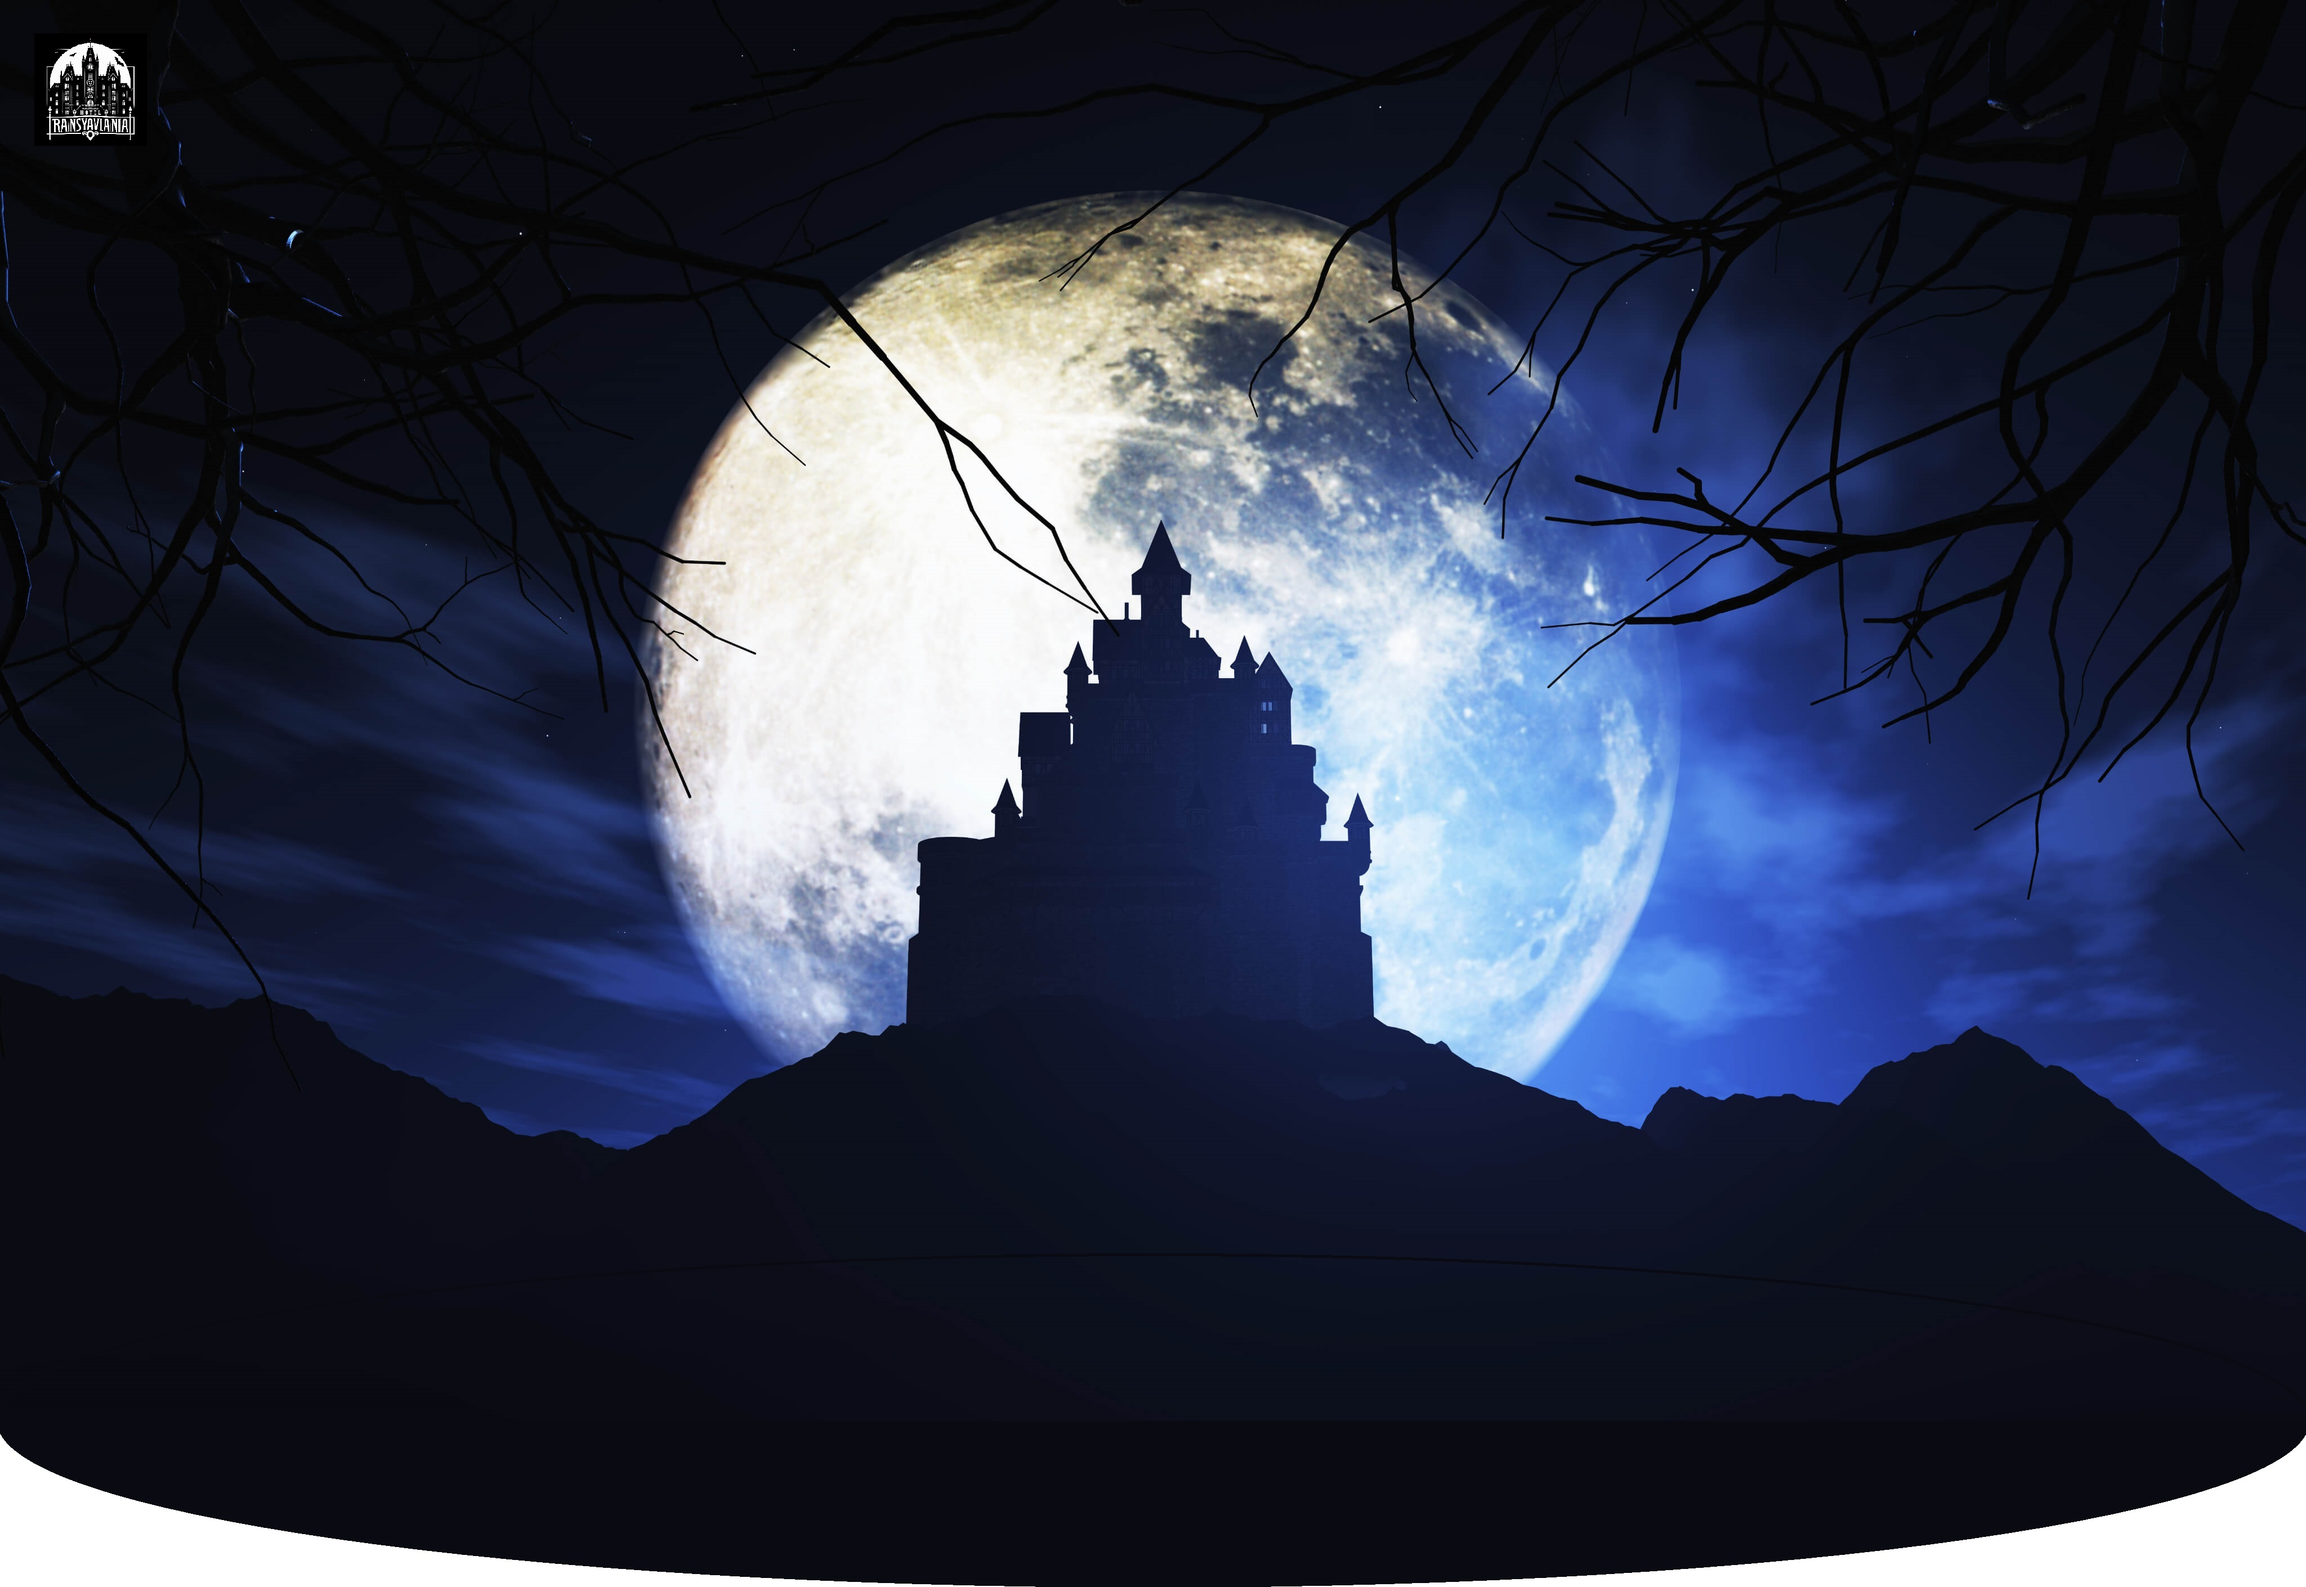
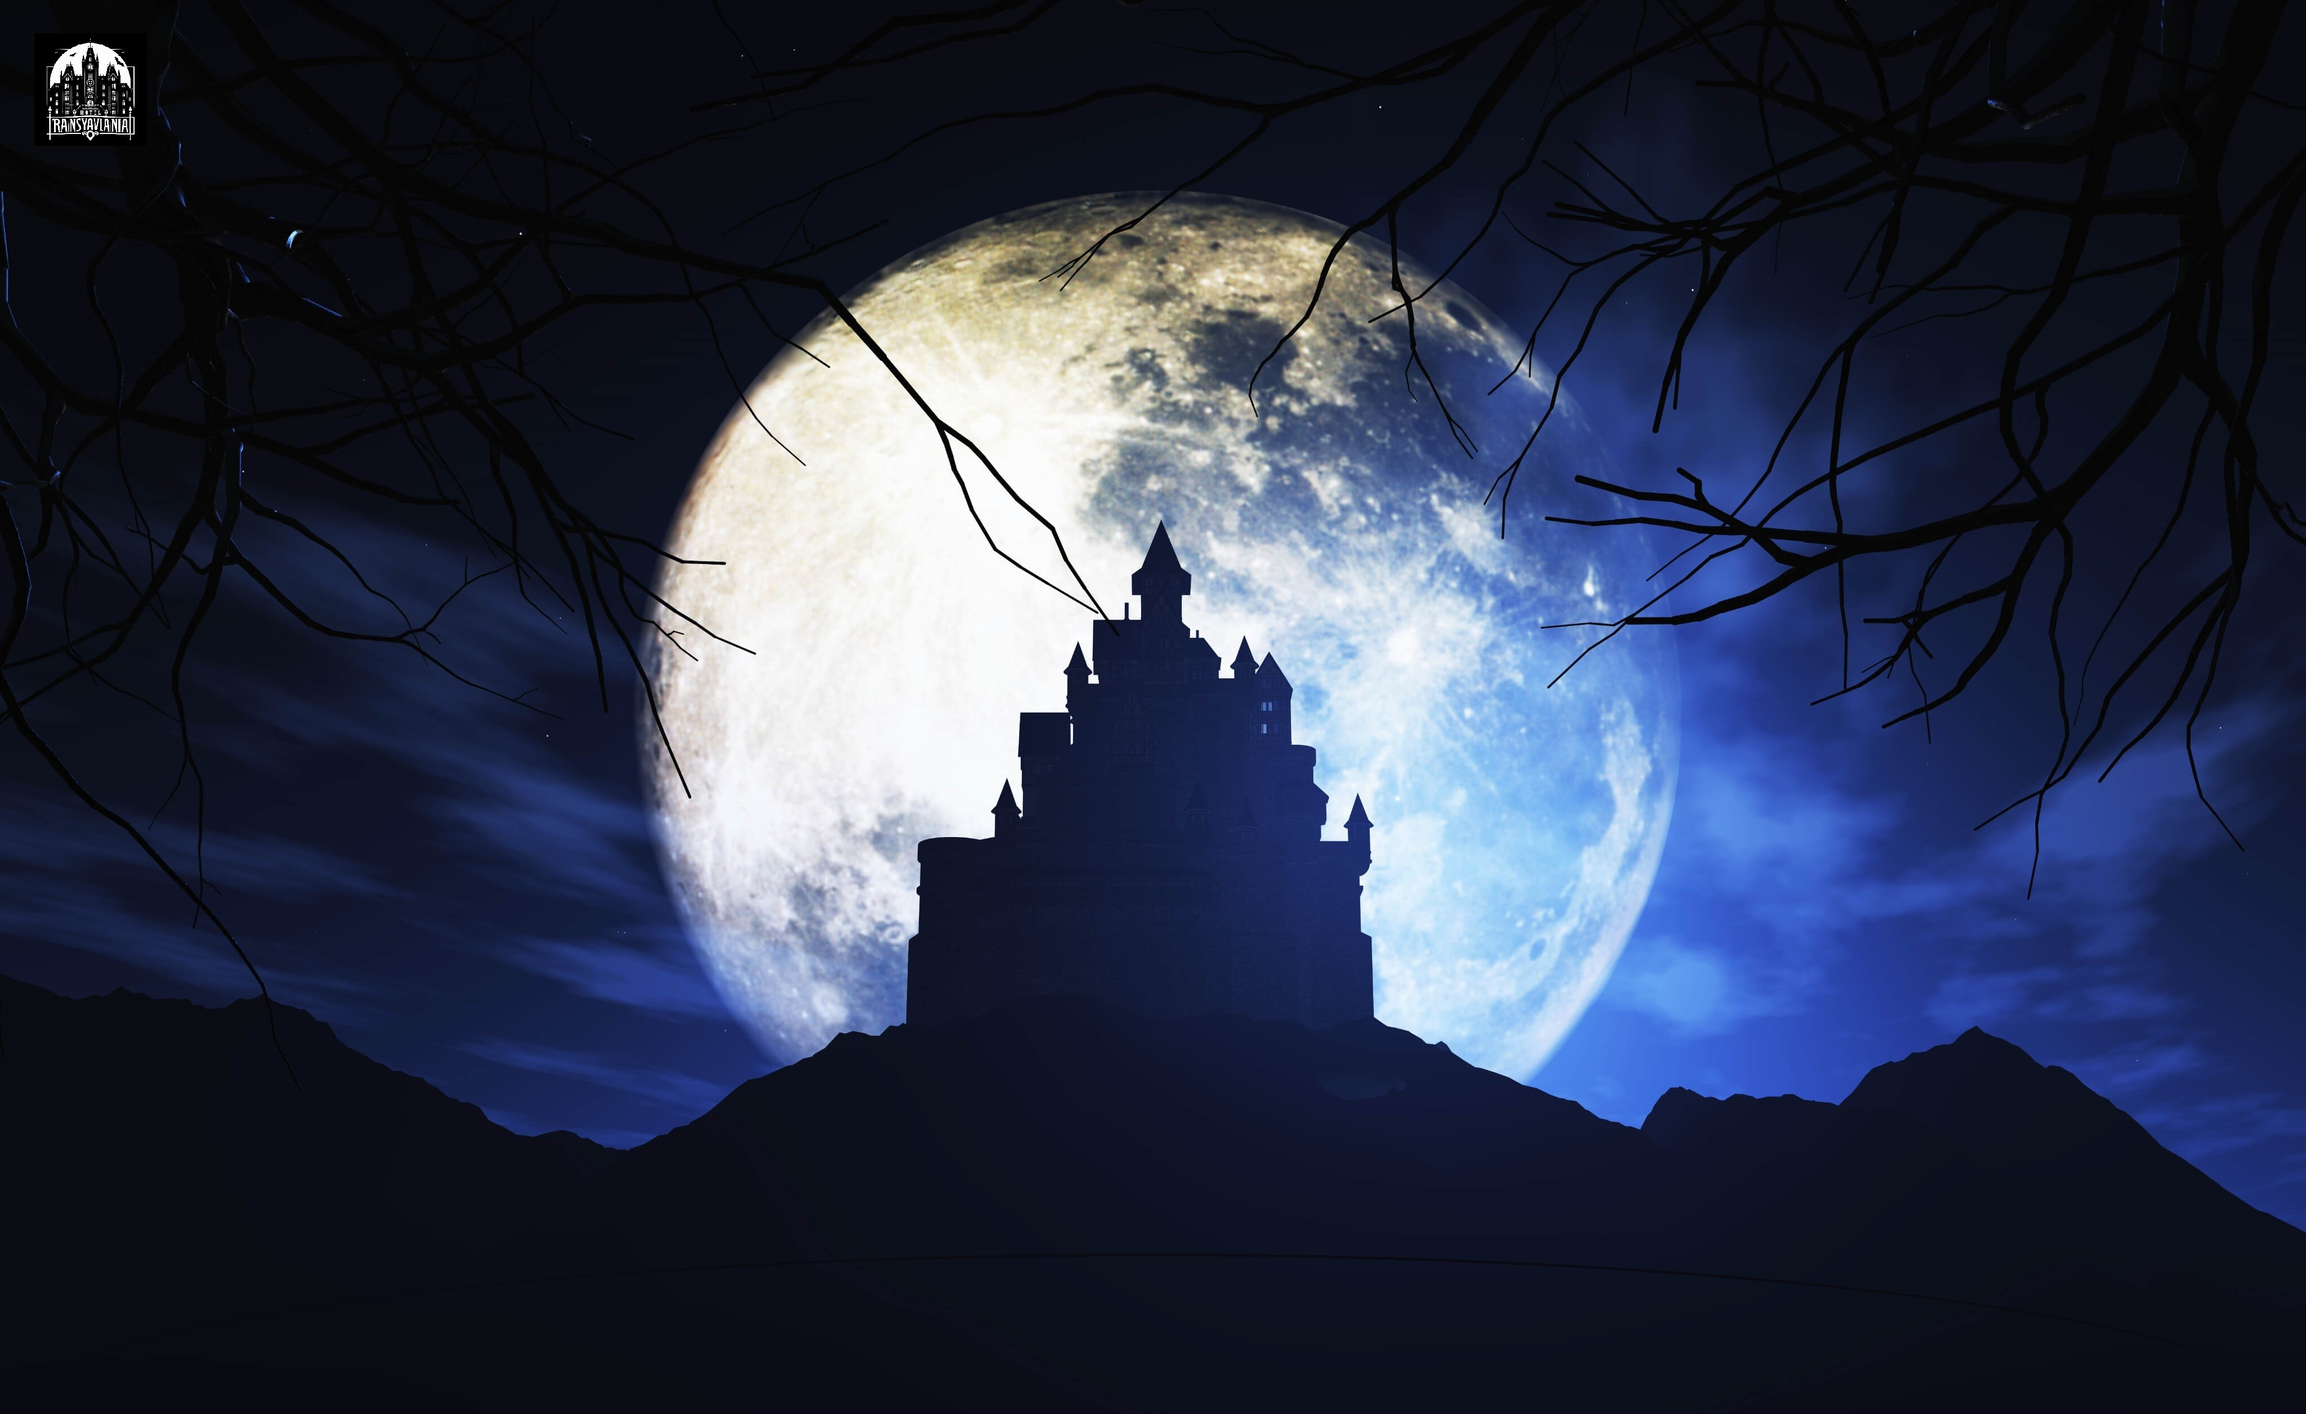
basic landing-page

diff --git a/src/pages/Landing.jsx b/src/pages/Landing.jsx
@@ -1,30 +1,96 @@
 import { ThemeProvider } from "@mui/material/styles";
 import { theme } from "../layouts/theme";
+
+import { Link } from "react-router-dom";
 import "../components/BackgroundImage.css";
 import Bar from '../components/Bar';
+import Footer from "../components/Footer";
+import { Button } from "@mui/material";
 
-const body_TODO = () => {
-    const res = []
-    for (let i = 0; i < 100; i++) {
-        res.push(<br />);
-    }
-    return res;
-}
+import htp1 from "../assets/Hotelpic1.jpeg";
+import htp2 from "../assets/Hotelpic2.jpeg"
+import htp3 from "../assets/Hotelpic3.jpeg"
+import home from "../assets/HomePage.jpeg";
+
+import "bootstrap/dist/css/bootstrap.min.css";
+import "../components/Landing.css";
+
 
 const HomePage = () => {
     return (
-        <ThemeProvider theme={theme}>
-            <div className="background-image">
-                <Bar />
+        <div >
+        <nav class="navbar navbar-expand-lg fixed-top text-right navbar-dark border-body" data-bs-theme="dark" >
+            <div class="container">
+              <button class="navbar-toggler" type="button" data-bs-toggle="collapse" data-bs-target="#navbarNav" aria-controls="navbarNav" aria-expanded="false" aria-label="Toggle navigation">
+                <span class="navbar-toggler-icon"></span>
+              </button>
+              <div class="collapse navbar-collapse" id="navbarNav">
+                <ul class="navbar-nav ms-auto">
+                    <Button>
+                        <Link to="/register" class="nav-link active text-purple">ثبت نام</Link>
+                    </Button>
+                    <Button>
+                    <Link to="/login" class="nav-link text-purple">ورود</Link>
+                    </Button>
+                    <Button>
+                    <a class="nav-link text-purple" href="#">اخبار</a>
+                    </Button>
+                </ul>
+              </div>
             </div>
-            <div>
-                <center>
-                    {body_TODO()}
-                    <h1 style={{fontSize: 100, backgroundColor: 'purple'}}> Footer </h1>
-                </center>
+        </nav>
+        <div>
+            
+        </div>
+        <div class="overlay-container">
+            <img src={home} class="overlay-image rounded-bottom-corners enlarge-image" alt="Responsive Image" />
+            <div class="overlay-text text-purple fade-text" id ="welcomeText">تصاویر هتل</div>
+        </div>
+        <div class="container mt-5">
+            <div class="row">
+                <div class="col-md-4 mb-4">
+                    <div class="card">
+                        <img src={htp1} class="card-img-top" alt="Card Image"/>
+                        <div class="card-body">
+                            <h5 class="card-title">اتاق با فضای باز</h5>
+                            <p class="card-text">در این اتاقها، شما از زیباییهای محیط باز لذت میبرید، همچنین فضایی راحت و آرامشبخش برای استراحت و خلوت به شما ارائه میشود. با دسترسی به یک تراس یا باغ خصوصی، این اتاقها فراتر از یک اقامت معمولی را به شما ارائه میدهند</p>
+                            <a href="#" class="btn bg">ادامه</a>
+                        </div>
+                    </div>
+                </div>
+    
+                <div class="col-md-4 mb-4">
+                    <div class="card">
+                        <img src={htp2} class="card-img-top" alt="Card Image" />
+                        <div class="card-body">
+                            <h5 class="card-title">اتاق های لاکچری</h5>
+                            <p class="card-text">هر جزئیات اتاقهای لاکچری ما با دقت انتخاب شده است،ازانتخاب مبلمان گرانقیمت تاارائهی خدمات شخصی و حرفهای. از دیگر ویژگیها میتوان به تجهیزات نوآورانه، تختهای فاخر با بلندی مطلوب و حمامات طراحی شده با ذوق اشاره کرد</p>
+                            <a href="#" class="btn bg">ادامه</a>
+                        </div>
+                    </div>
+                </div>
+    
+                <div class="col-md-4 mb-4">
+                    <div class="card">
+                        <img src={htp3} class="card-img-top" alt="Card Image"/>
+                        <div class="card-body">
+                            <h5 class="card-title">اتاق های چند نفره</h5>
+                            <p class="card-text">هر اتاق چند نفره با اهتمام به جزئیات طراحی شده است تا امکاناتی را در اختیار شما قرار دهد که هر کدام از مهمانان بتوانند لحظاتی خاص و شاد را در کنار یکدیگر سپری کنند. از امکانات این اتاقها میتوان به تجهیزات رفاهی، فضاهای جلوهای و خدمات شخصی اشاره کرد</p>
+                            <a href="#" class="btn bg">ادامه</a>
+                        </div>
+                    </div>
+                </div>
             </div>
-        </ThemeProvider>
+        </div>
+        <footer class="mt-5 status-bottom">
+            <div class="container-fluid bg-dark text-light text-center py-3">
+                <Button>تماس با ما</Button>
+                <Button>درباره ما</Button>
+            </div>
+        </footer>
+    </div>
     );
 }
+
 
 export default HomePage;

diff --git a/src/components/Landing.css b/src/components/Landing.css
@@ -1,0 +1,60 @@
+
+.overlay-container {
+    position: relative;
+}
+
+.overlay-text {
+    position: absolute;
+    bottom: 20px; /* Adjust this value to your preference */
+    left: 50%;
+    transform: translateX(-50%);
+    color: white;
+    font-size: 2em;
+    font-weight: bold;
+}
+
+.overlay-image {
+    width: 100%;
+    height: auto;
+}
+
+.text-purple {
+    color: #BD93F9 !important;
+}
+body {
+    background-color: #282a36;
+    color: #f8f8f2;
+}
+
+.card {
+    background-color: #44475a;
+    box-shadow: 0 4px 8px rgba(0, 0, 0, 0.2);
+    color: #f8f8f2;
+}
+
+.card-title {
+    color: #BD93F9;
+}
+
+.card-text, .btn {
+    color: #f8f8f2;
+}
+.rounded-bottom-corners {
+    border-bottom-left-radius: 450px;
+    border-bottom-right-radius: 450px;
+}
+.enlarge-image {
+    transform: scale(1.3);
+}
+.fade-text {
+    opacity: 1;
+    transition: opacity 0.5s ease-in-out;
+}
+.navbar-purple {
+    background-color: "#BD93F9";
+}
+
+.bg 
+{
+    background-color: #FF79C6 !important;
+}

diff --git a/src/components/Footer.jsx b/src/components/Footer.jsx
@@ -1,0 +1,43 @@
+import React from 'react';
+
+const Footer = () => {
+  return (
+    <footer style={styles.footer}>
+      <div style={styles.footerContent}>
+        {/* <h2>Footer Content</h2>
+        <p>Your additional information or links can go here.</p> */}
+        <div style={styles.buttonContainer}>
+        <button style={styles.button}>تماس با ما</button>
+        <button style={styles.button}>ارتباط با ما</button>
+        </div>
+      </div>
+    </footer>
+  );
+};
+
+const styles = {
+  footer: {
+    backgroundColor: '#BD93F9',
+    color: 'white',
+    padding: '20px',
+    textAlign: 'center',
+  },
+  footerContent: {
+    maxWidth: '800px',
+    margin: '0 auto',
+  },
+  buttonContainer: {
+    marginTop: '20px',
+  },
+  button: {
+    backgroundColor: 'white',
+    color: 'purple',
+    padding: '10px 20px',
+    margin: '0 10px',
+    border: 'none',
+    borderRadius: '5px',
+    cursor: 'pointer',
+  },
+};
+
+export default Footer;

diff --git a/src/components/BackgroundImage.css b/src/components/BackgroundImage.css
@@ -1,6 +1,6 @@
 .background-image {
     background-image: url('../assets/HomePage.jpeg');
-    background-size: cover;
+    background-size: contain;
     background-position: top;
     background-repeat: no-repeat;
     height: 140vh;
